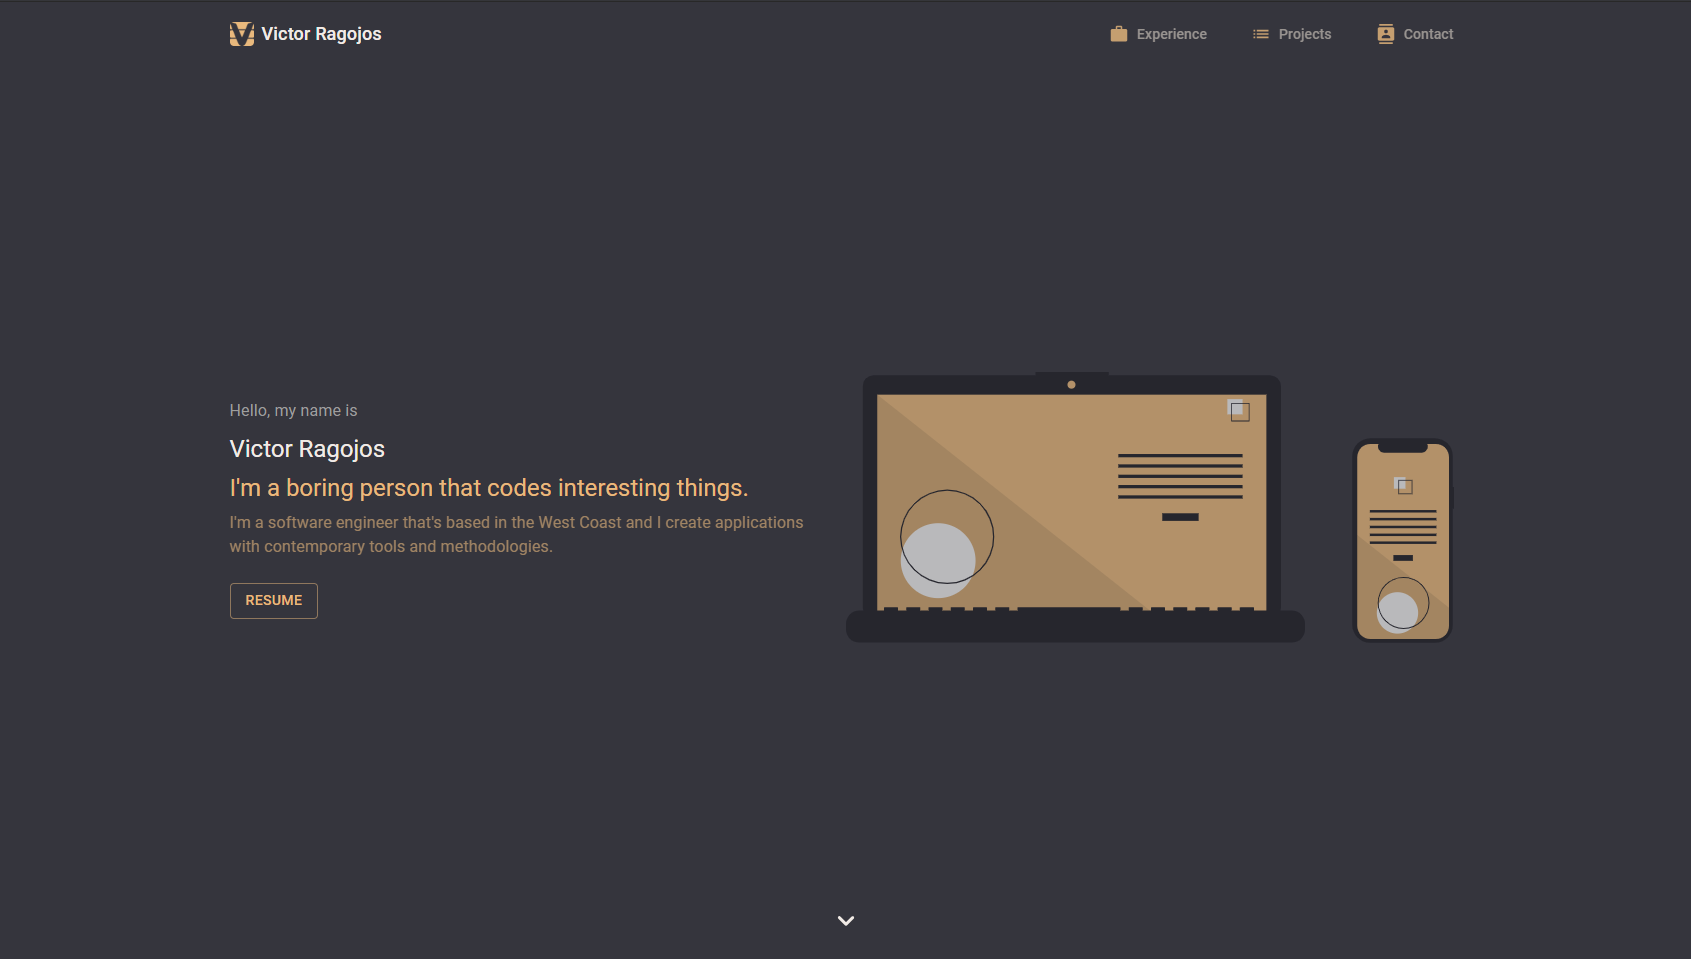
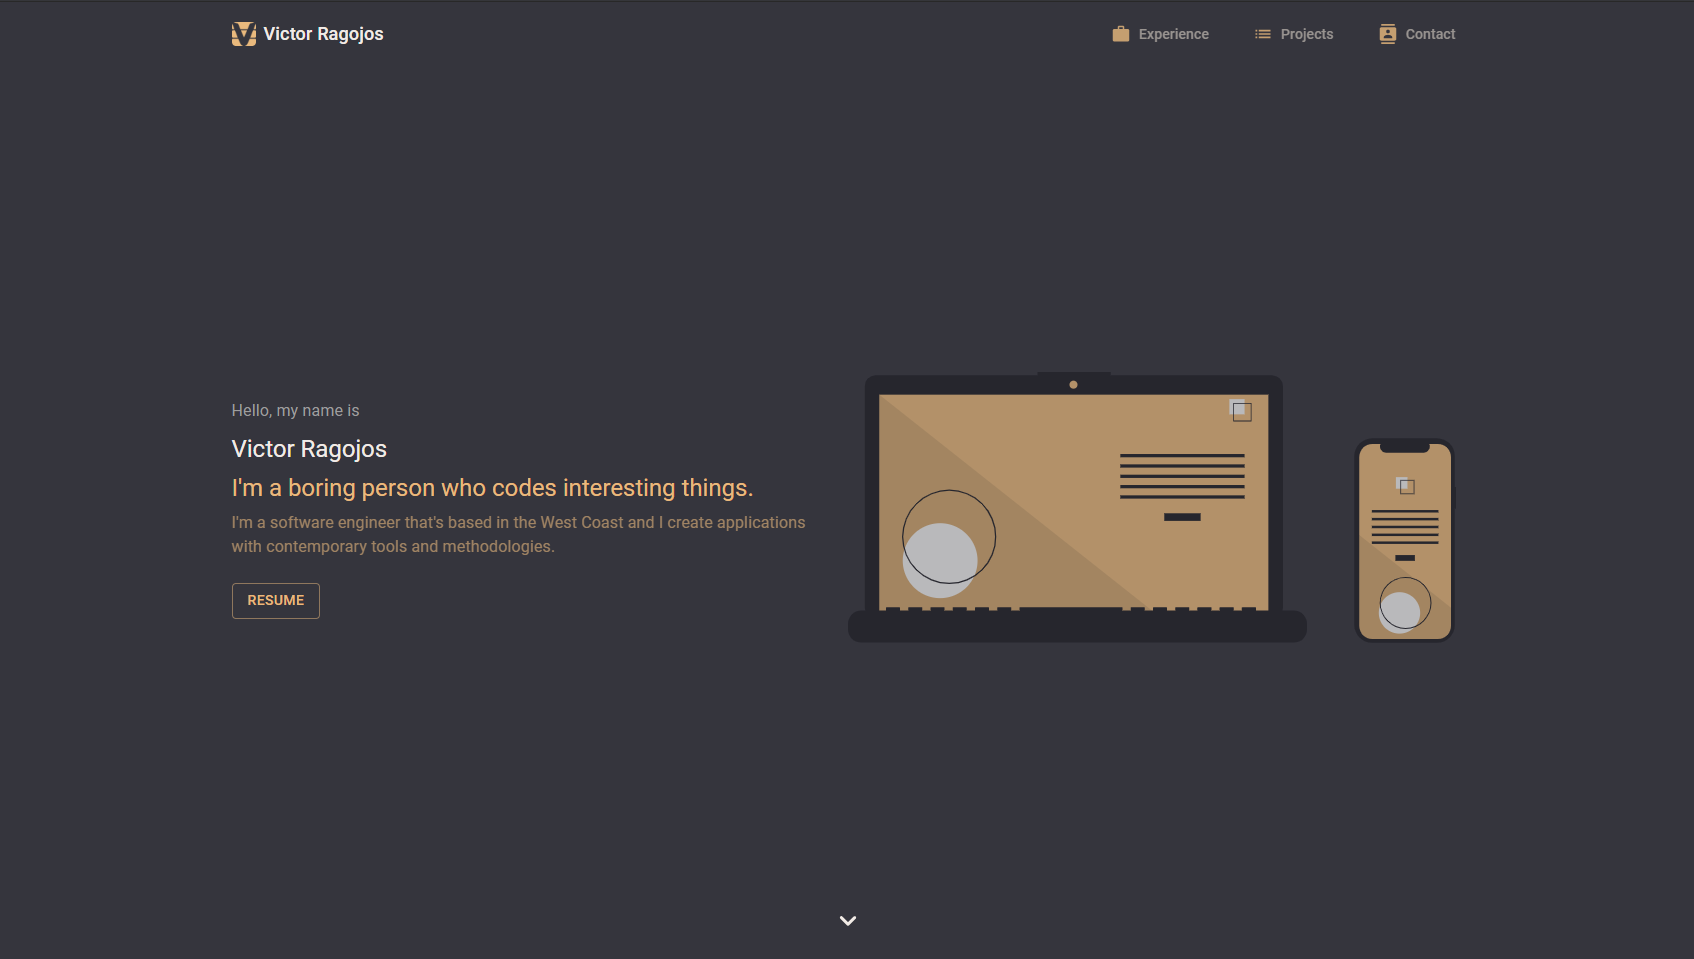
MOD: fix English

Changed region(s): [[0.123, 0.4234, 0.4613, 0.5746], [0.123, 0.0302, 0.246, 0.0605], [0.123, 0.6048, 0.1845, 0.635]]

diff --git a/lib/constants.js b/lib/constants.js
@@ -40,7 +40,7 @@ export const experiences = [
 		job: 'Computer Science Tutor',
 		duration: { from: moment('08/01/2018', 'MM/DD/YYYY'), to: moment('05/21/2019', 'MM/DD/YYYY') },
 		description: [
-			'Assisted peers and lower classmates with various studying techniques for exams, project, and/or assignments.',
+			'Assisted classmates with various studying techniques for exams, projects, and/or assignments.',
 			'Presented different ways to visualize, understand, and enjoy complex programming topics.',
 			'Collaborated with professors to address teaching and assignment issues.',
 		],
@@ -55,9 +55,9 @@ export const featuredProjects = [
 		stack: 'GraphQL, NextJS, Redis, Azure, OAuth2(w/ OIDC)',
 		description: [
 			'CRUD application built with contemporary tools.',
-			'Create or import recipes that is shared with other users.',
+			'Create or import recipes that are shared with other users.',
 			'Make "Creations" which are byproducts of the recipes from the website.',
-			'Auth Server is isolated from this specific app to be utilized for future side projects as well as to allow for upgrades to be done seperately(Less headche).',
+			'Auth Server is isolated from this specific app to be utilized for future side projects as well as to allow for upgrades to be done seperately(less headache).',
 			'Powered by a GraphQL Backend Server.',
 		],
 	},
@@ -67,7 +67,7 @@ export const featuredProjects = [
 		link: 'https://spoonfed.dev/api/login',
 		stack: 'NodeJS, Material Design, OAuth2 Protocol, OIDC Protocol, node-oidc-provider Library',
 		description: [
-			'Handles future and current side projects.',
+			'Handles authentication/authorization for future and current side projects.',
 			'Uses OAuth 2 and OIDC protocol.',
 			'Redis is used as a distributed cache to prevent stale token data across future side projects as well as to offload recurring token introspection requests.',
 			'(WIP) Profile and Session management to allow users to change passwords, logout of any active sessions, etc.',
@@ -82,7 +82,7 @@ export const featuredProjects = [
 			'Real time CRUD application.',
 			'1 on 1 private messages with Socket.io\'s "room" feature.',
 			'Redux handles all the state management on the front-end side.',
-			"NodeJS(express) with it's asynchronouse features powers the backend.",
+			"NodeJS(express) with it's asynchronous features powers the backend.",
 			'Basic JWT Authentication handles user authentication for all my "archived" projects.',
 		],
 	},

diff --git a/pages/_document.js b/pages/_document.js
@@ -14,7 +14,7 @@ export default class MyDocument extends Document {
 						name="keywords"
 						content="RagOfJoes, Victor Ragojos, Victor, Ragojos, software engineer, react, javascript"
 					/>
-					<meta name="description" content="A boring person that likes to code interesting things." />
+					<meta name="description" content="A boring person who likes to code interesting things." />
 
 					<meta property="og:type" content="website" />
 					<meta property="og:locale" content="en_US" />
@@ -22,10 +22,9 @@ export default class MyDocument extends Document {
 					<meta property="og:url" content="https://ragofjoes.dev" />
 					<meta property="og:title" content="Victor Ragojos | Portfolio" />
 					<meta property="og:site_name" content="Victor Ragojos | Portfolio" />
-					<meta name="og:description" content="A boring person that likes to code interesting things." />
+					<meta name="og:description" content="A boring person who likes to code interesting things." />
 
 					<meta name="viewport" content="minimum-scale=1, initial-scale=1, width=device-width" />
-					<meta name="description" content="A boring person that likes to code interesting things." />
 					<link rel="stylesheet" href="https://fonts.googleapis.com/css?family=Roboto:300,400,500,700&display=swap" />
 
 					<link rel="shortcut icon" href="/images/favicon.ico" />

diff --git a/pages/index/Intro.js b/pages/index/Intro.js
@@ -46,7 +46,7 @@ export default () => {
 
 				<Grid item>
 					<Typography variant="h5" color="primary">
-						I'm a boring person that codes interesting things.
+						I'm a boring person who codes interesting things.
 					</Typography>
 				</Grid>
 
